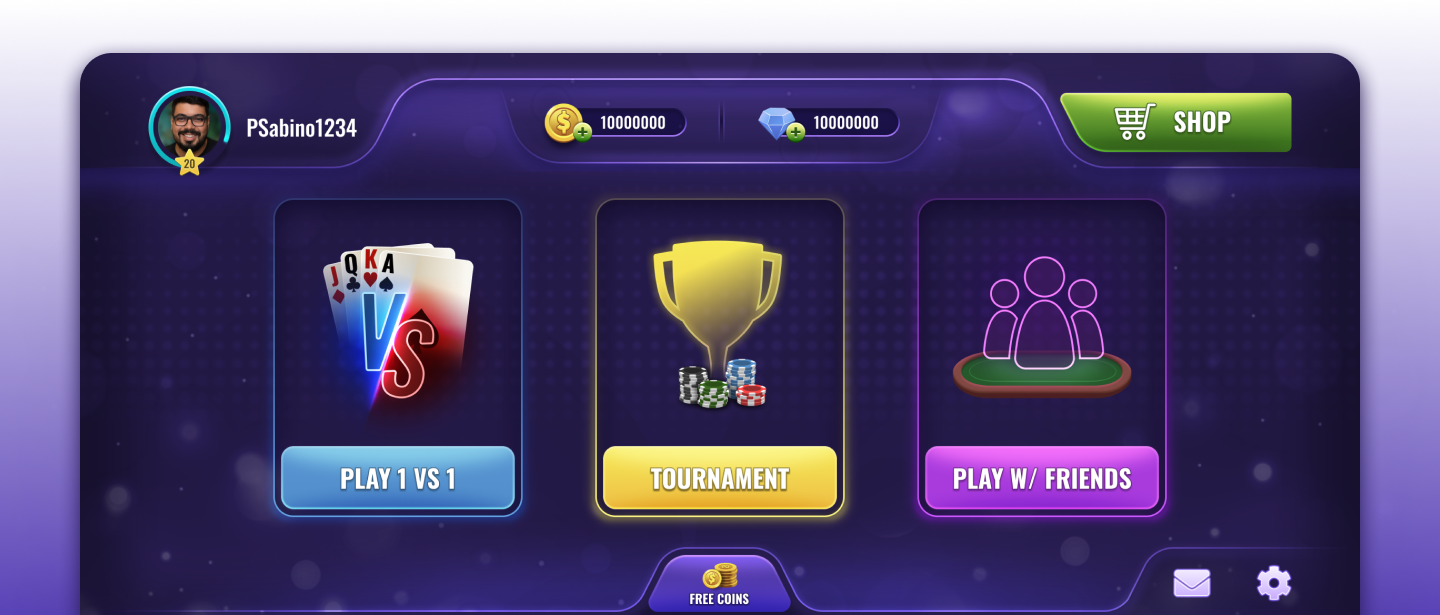
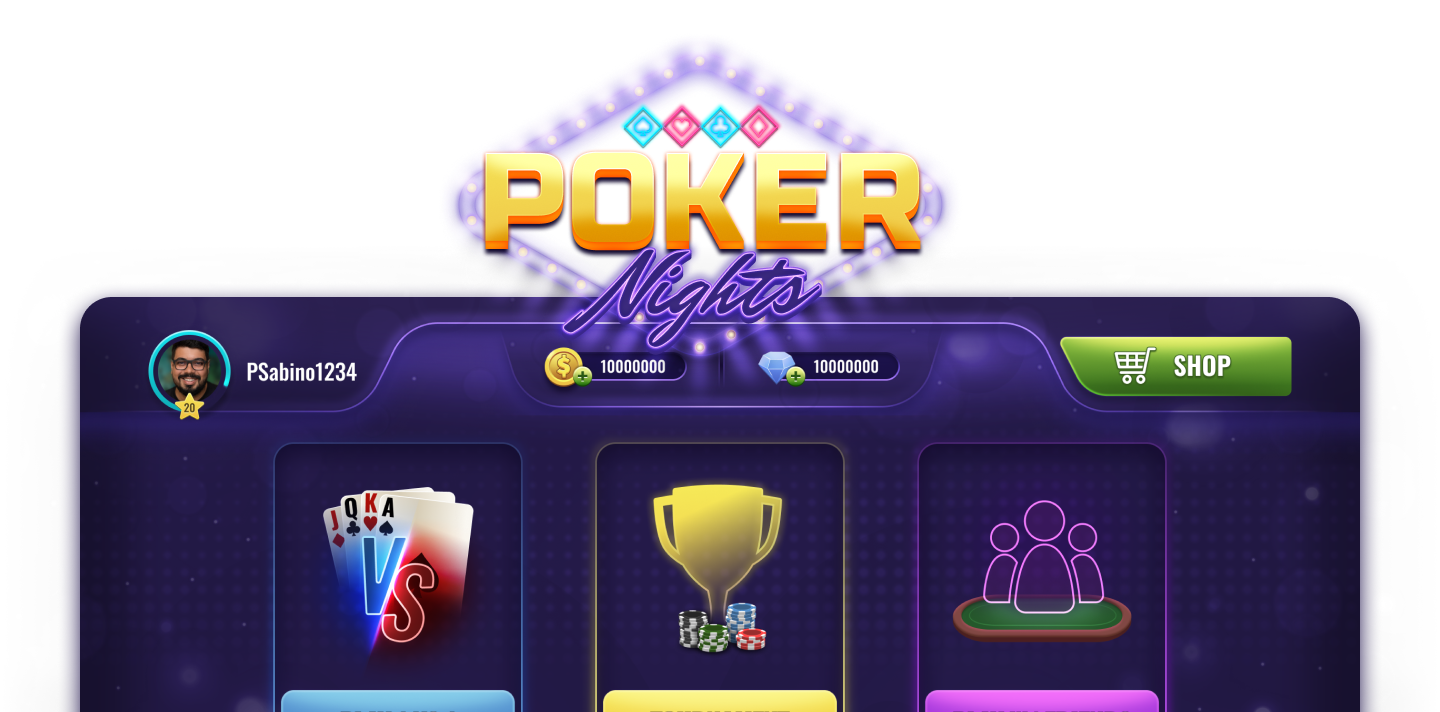
Add hero gradient color variants
- Make the hero gradient color configurable: hero--blue (default) and hero--purple
- Use the purple variant on Poker Nights, blue on Paw Puzzles
- Update Poker Nights hero image and rename the animation section

diff --git a/style.css b/style.css
@@ -274,14 +274,19 @@ nav a.active { opacity: 0.4; }
 /* ═══════ CASE STUDY PAGES (paw-puzzles.html) ═══════ */
 
 /* ─── HERO ─── */
+/* Hero gradient: white at the top fading into the project color.
+   Variants: hero--blue (default) and hero--purple. */
 .hero {
   position: relative;
-  background: linear-gradient(to bottom, #fff 13.6%, #3fe6fe 183%);
+  background: linear-gradient(to bottom, #fff 13.6%, var(--hero-color, #3fe6fe) 183%);
   overflow: hidden;
   display: flex;
   flex-direction: column;
   align-items: center;
 }
+
+.hero--blue   { --hero-color: #3fe6fe; }
+.hero--purple { --hero-color: #5A42B7; }
 
 .hero-title {
   text-align: center;

diff --git a/poker-nights.html b/poker-nights.html
@@ -39,7 +39,7 @@
   </header>
 
   <!-- HERO -->
-  <div class="hero">
+  <div class="hero hero--purple">
     <div class="hero-title fade-up">
       <h2>Poker Nights</h2>
       <p>A Mobile Game Case Study</p>
@@ -171,7 +171,7 @@
   <!-- ANIMATION -->
   <section>
     <div class="container">
-      <h2 class="section-title reveal">Animation</h2>
+      <h2 class="section-title reveal">Level Up Animation</h2>
       <!-- Plays like a moving image: muted, looping, no controls.
            Add poster="images/projects/pn/animation-poster.jpg" (first frame) to show
            something while the video loads.

diff --git a/paw-puzzles.html b/paw-puzzles.html
@@ -37,7 +37,7 @@
   </header>
 
   <!-- HERO -->
-  <div class="hero">
+  <div class="hero hero--blue">
     <div class="hero-title fade-up">
       <h2>Paw Puzzles</h2>
       <p>A mobile blast game with cute dogs 🐾</p>
